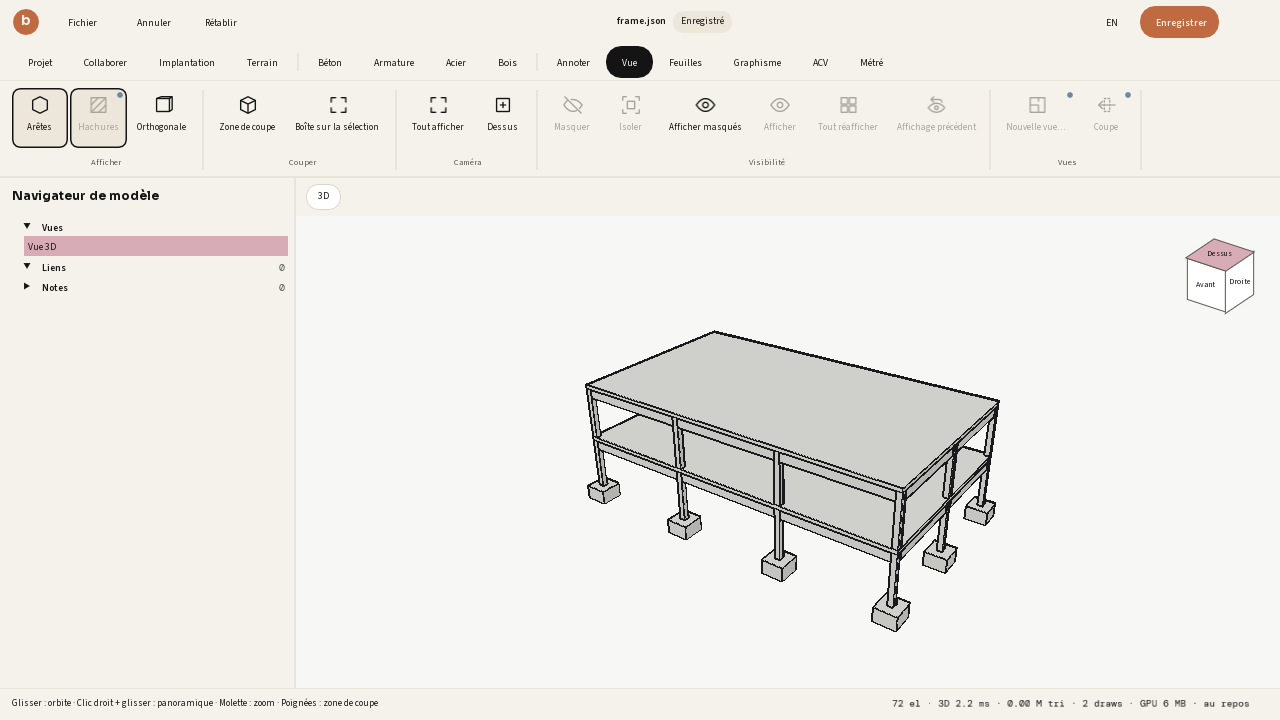
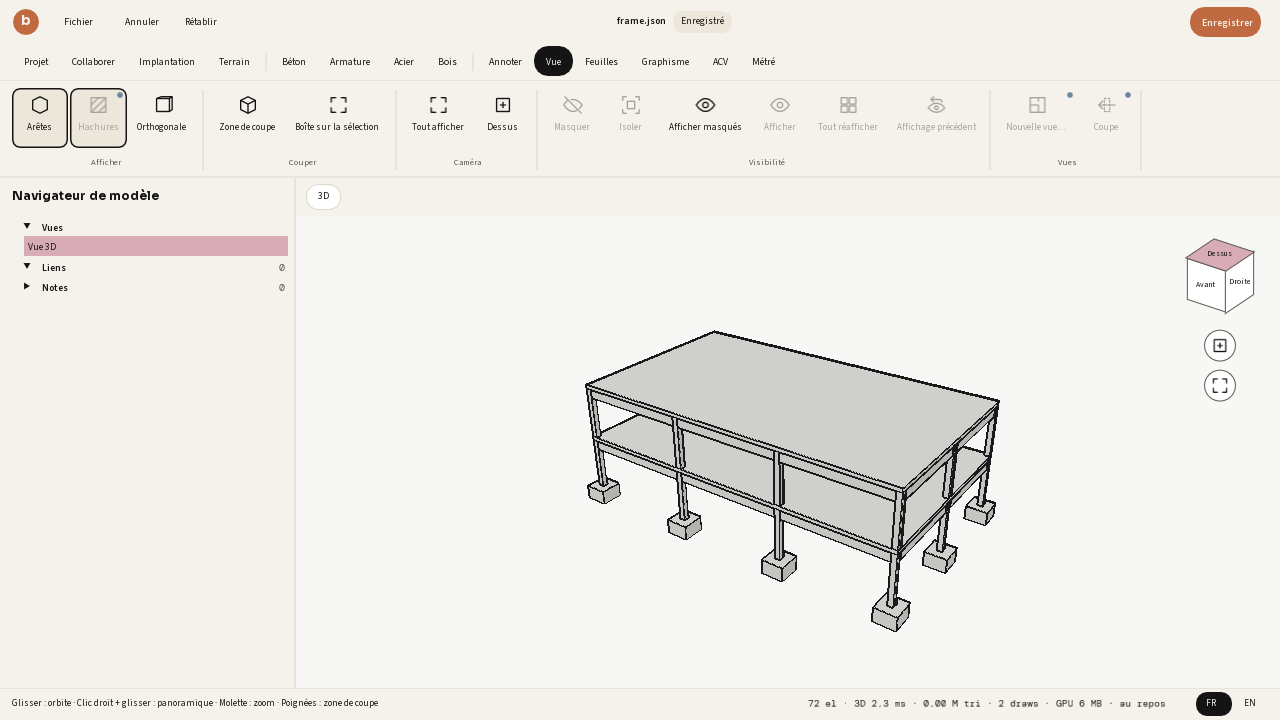
NUI1: overlays under the dialogs, Properties' numbers from their value (the token pointed into a freed answer), driver steps view and show, orbit/zoom/pan/pick on the six links timed

diff --git a/ccore/native/ui/drive.c b/ccore/native/ui/drive.c
@@ -229,6 +229,18 @@ static int run_step(App *a, Step *s, double now) {
     }
     if (!strcmp(op, "action")) { a->input_t = app_now(), snprintf(a->input_what, sizeof a->input_what, "action %.30s", arg); tool_run_action(a, arg); return 1; }
     if (!strcmp(op, "open")) { app_open(a, arg); return 1; }
+    if (!strcmp(op, "view")) { a->input_t = app_now(), snprintf(a->input_what, sizeof a->input_what, "view"); view_set(a, *arg ? arg : NULL); return 1; }
+    if (!strcmp(op, "show")) { /* show perf|keys|settings|file_menu|links|none: a panel or dialog as its control opens it */
+        a->input_t = app_now(), snprintf(a->input_what, sizeof a->input_what, "show %.20s", arg);
+        if (!strcmp(arg, "perf")) a->dialog = DLG_PERF;
+        else if (!strcmp(arg, "keys")) a->dialog = DLG_KEYS;
+        else if (!strcmp(arg, "settings")) tool_run_action(a, "settings");
+        else if (!strcmp(arg, "file_menu")) a->file_menu = 1;
+        else if (!strcmp(arg, "links")) a->links_panel = 1;
+        else if (!strcmp(arg, "link_dialog")) tool_run_action(a, "link_folder");
+        else a->dialog = DLG_NONE, a->file_menu = 0, a->links_panel = 0;
+        return 1;
+    }
     if (!strcmp(op, "call")) { /* call <op> <name> <json>: a core call as the page makes it (a test's setup) */
         char cop[24] = "", cname[64] = "";
         int used = 0;

diff --git a/ccore/native/ui/app.c b/ccore/native/ui/app.c
@@ -266,7 +266,7 @@ static void frame(App *a) {
             SDL_GPUTexture *t3d = a->r ? nv_render_color(a->r) : NULL; /* none yet: nothing drawn (a NULL texture crashes the backend) */
             ImTextureRef_c ref = {NULL, (ImTextureID)(uintptr_t)t3d};
             if (t3d) ImDrawList_AddImage(bg, ref, V2(a->vx, a->vy), V2(a->vx + a->vw, a->vy + a->vh), V2(0, 0), V2(1, 1), 0xFFFFFFFFu);
-            ImDrawList *fg = igGetForegroundDrawList_Nil();
+            ImDrawList *fg = bg; /* the overlays under every window (a dialog or a menu covers them) */
             tool_box_draw(a, fg);
             tool_measure_draw(a, fg);
             ImVec2 mp = igGetIO_Nil()->MousePos;

diff --git a/ccore/native/ui/panels.c b/ccore/native/ui/panels.c
@@ -174,7 +174,7 @@ static void json_rows(App *a, const char *key, const JrVal *v, int depth, int *r
     }
     char val[256];
     if (v->type == JR_STR) snprintf(val, sizeof val, "%s", v->s);
-    else if (v->type == JR_NUM) snprintf(val, sizeof val, "%.*s", (int)(v->n < 60 ? v->n : 60), v->s);
+    else if (v->type == JR_NUM) snprintf(val, sizeof val, "%.10g", v->num); /* the token points into the answer, freed */
     else if (v->type == JR_BOOL) snprintf(val, sizeof val, "%s", v->b ? "true" : "false");
     else snprintf(val, sizeof val, "—");
     float s = a->scale;
